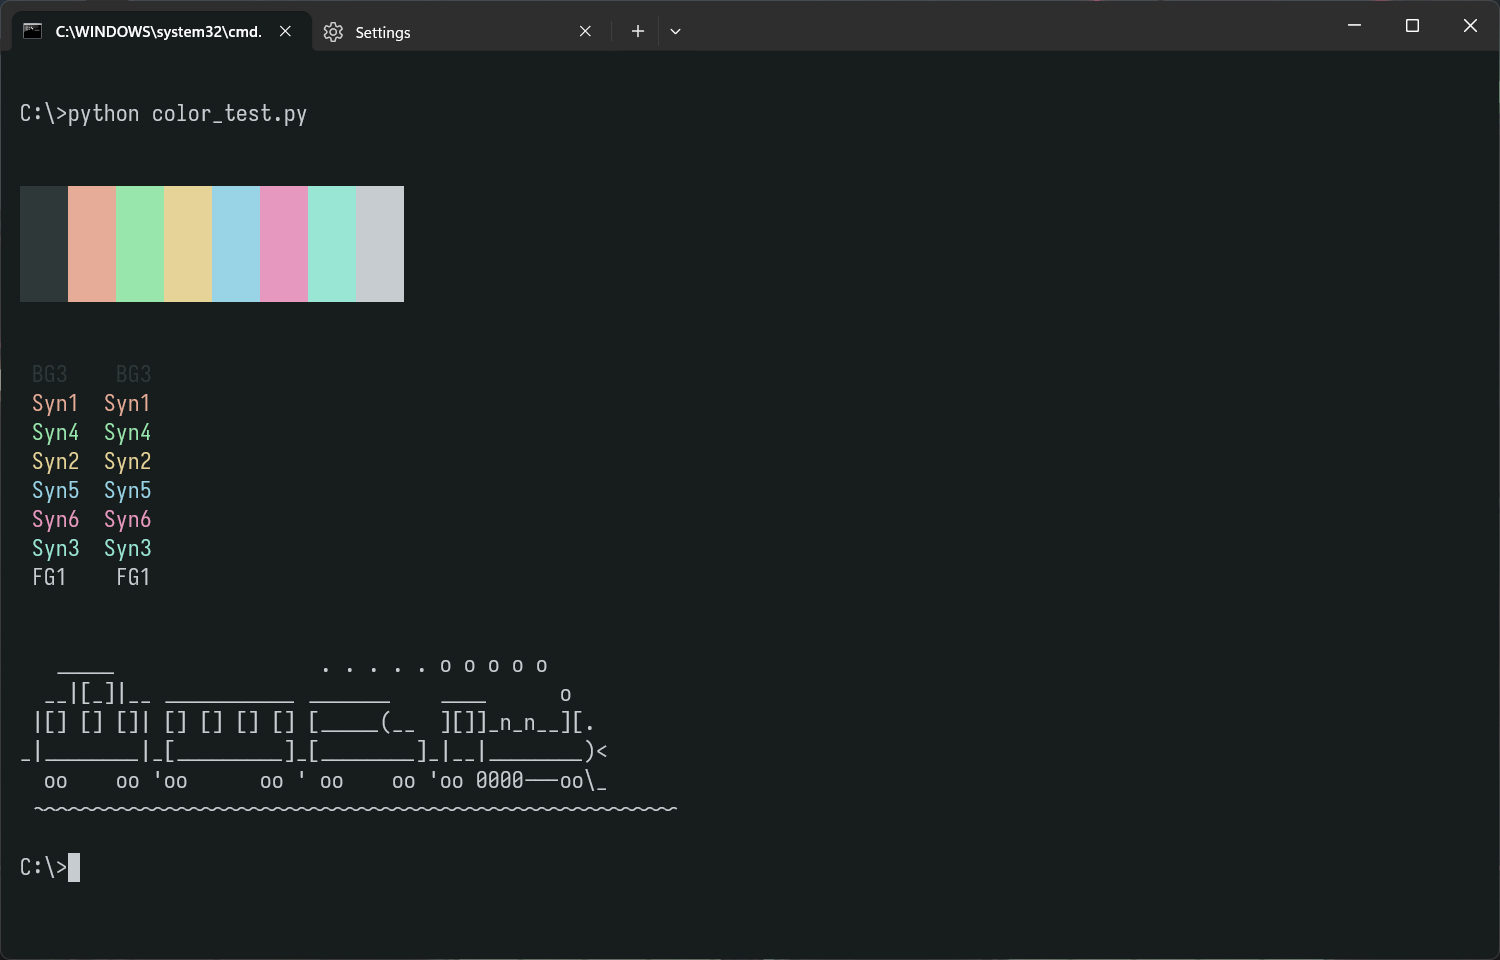
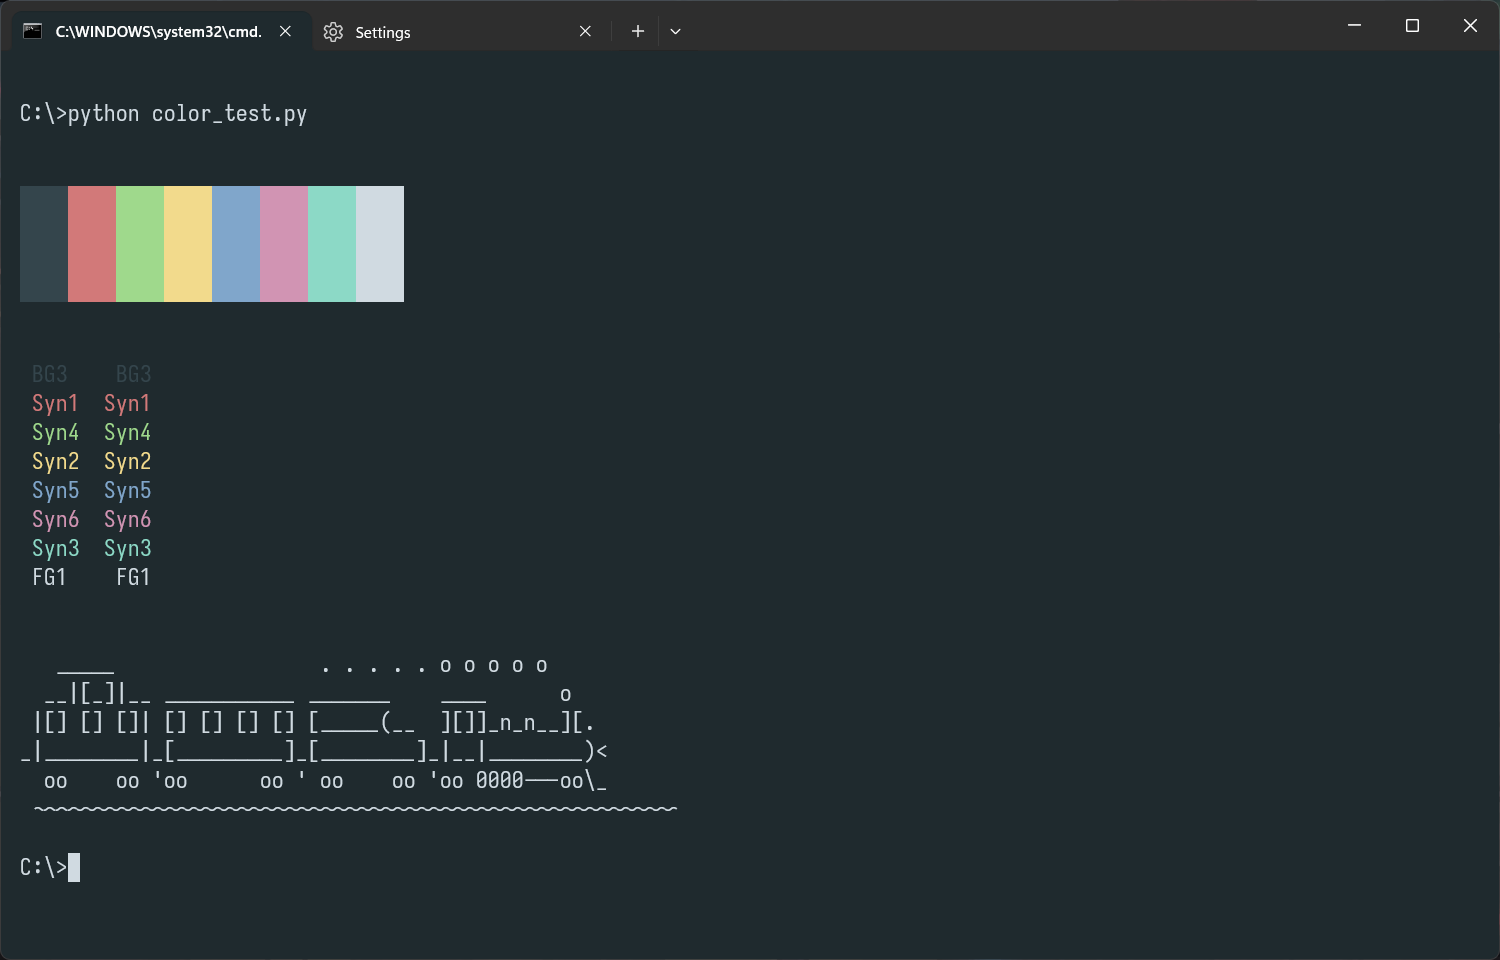
complete refactoring metropolis theme

Changed region(s): [[0.0307, 0.1875, 0.184, 0.3125], [0.0613, 0.5, 0.092, 0.5312], [0.0613, 0.4062, 0.092, 0.4375]]

diff --git a/scheme_files/other/metropolis.html b/scheme_files/other/metropolis.html
@@ -26,49 +26,49 @@ this template is meant as a reference sheet for your color theme
 			</tr>
 			<tr>
 				<td>Background - 1st level<br><a>UI: default text bg</a></td>
-				<td>#171c1c</td>
-				<td style="background-color:#171c1c;"></td>
+				<td>#1f2a2e</td>
+				<td style="background-color:#1f2a2e;"></td>
 			</tr>
 			<tr>
 				<td>Background - 2nd level<br><a>UI: inactive tab or file bg, 2nd level surfaces bg</a></td>
-				<td>#222a2a</td>
-				<td style="background-color:#222a2a;"></td>
+				<td>#29383d</td>
+				<td style="background-color:#29383d;"></td>
 			</tr>
 			<tr>
 				<td>Background - 3rd level<br><a>UI: separators, other bg symbols</a></td>
-				<td>#2e3838</td>
-				<td style="background-color:#2e3838;"></td>
+				<td>#34454c</td>
+				<td style="background-color:#34454c;"></td>
 			</tr>
 			<tr>
 				<td>Foreground - 1st level<br><a>UI: cursor
                 <br>SYNTAX: default text</a></td>
-				<td>#c7ccd1</td>
-				<td style="background-color:#c7ccd1;"></td>
+				<td>#d0dae1</td>
+				<td style="background-color:#d0dae1;"></td>
 			</tr>
 			<tr>
 				<td>Foreground - 2nd level<br><a>UI: 2nd level surfaces fg, inactive tab or file fg</td>
-				<td>#abb3ba</td>
-				<td style="background-color:#abb3ba;"></td>
+				<td>#b1c2cd</td>
+				<td style="background-color:#b1c2cd;"></td>
 			</tr>
 			<tr>
 				<td>Foreground - 3rd level<br><a>UI: fold, line numbers<br>SYNTAX: comments</a></td>
-				<td>#8f9aa3</td>
-				<td style="background-color:#8f9aa3;"></td>
+				<td>#92a9b9</td>
+				<td style="background-color:#92a9b9;"></td>
 			</tr>
 			<tr>
 				<td>Highlight - 1st level<br><a>UI: alternative marks</a></td>
-				<td>#73808c</td>
-				<td style="background-color:#73808c;"></td>
+				<td>#819898</td>
+				<td style="background-color:#819898;"></td>
 			</tr>	
 			<tr>
 				<td>Highlight - 2nd level<br><a>UI: selection, search marks, fold marks</a></td>
-				<td>#5c6770</td>
-				<td style="background-color:#5c6770;"></td>
+				<td>#677e7e</td>
+				<td style="background-color:#677e7e;"></td>
 			</tr>	
 			<tr>
 				<td>Highlight - 3rd level<br><a>UI: current line</a></td>
-				<td>#454d54</td>
-				<td style="background-color:#454d54;"></td>
+				<td>#506262</td>
+				<td style="background-color:#506262;"></td>
 			</tr>
 		</table>
 		<br>
@@ -83,35 +83,35 @@ this template is meant as a reference sheet for your color theme
 			<tr>
 				<td>syntax 1<br><a>UI: change history modified, alert, error
                 <br>SYNTAX: macro, methods, functions, symbols (question mark, shebang, etc.)<br>TERMINAL: red</a></td>
-				<td>#e6ac98</td>
-				<td style="background-color:#e6ac98;"></td>
+				<td>#d27979</td>
+				<td style="background-color:#d27979;"></td>
 			</tr>
 			<tr>
 				<td>syntax 2<br><a>UI: change history revert origin, change history revert modified, warnings
                 <br>SYNTAX: strings, char, regex, verbatim<br>TERMINAL: yellow</a></td>
-				<td>#e6d398</td>
-				<td style="background-color:#e6d398;"></td>
+				<td>#f2da8c</td>
+				<td style="background-color:#f2da8c;"></td>
 			</tr>
 			<tr>
 				<td>syntax 3<br><a>SYNTAX: opertors, variables, identifiers<br>TERMINAL: cyan</a></td>
-				<td>#98e6d3</td>
-				<td style="background-color:#98e6d3;"></td>
+				<td>#8cd9c6</td>
+				<td style="background-color:#8cd9c6;"></td>
 			</tr>
 			<tr>
 				<td>syntax 4<br><a>UI: change history saved
                 <br>SYNTAX: conditionals, keywords, tags, commands, instructions<br>TERMINAL: green</a></td>
-				<td>#98e6ac</td>
-				<td style="background-color:#98e6ac;"></td>
+				<td>#9fd98c</td>
+				<td style="background-color:#9fd98c;"></td>
 			</tr>
 			<tr>
 				<td>syntax 5<br><a>SYNTAX: keys, types, class, groups, sections, preprocessor<br>TERMINAL: blue</a></td>
-				<td>#98d3e6</td>
-				<td style="background-color:#98d3e6;"></td>
+				<td>#80a6cb</td>
+				<td style="background-color:#80a6cb;"></td>
 			</tr>
 			<tr>
 				<td>syntax 6<br><a>SYNTAX: qualifier, numbers, booleans, attributes<br>TERMINAL: magenta (purple)</a></td>
-				<td>#e698bf</td>
-				<td style="background-color:#e698bf;"></td>
+				<td>#d194b3</td>
+				<td style="background-color:#d194b3;"></td>
 			</tr>
 		</table>
 		<br>
